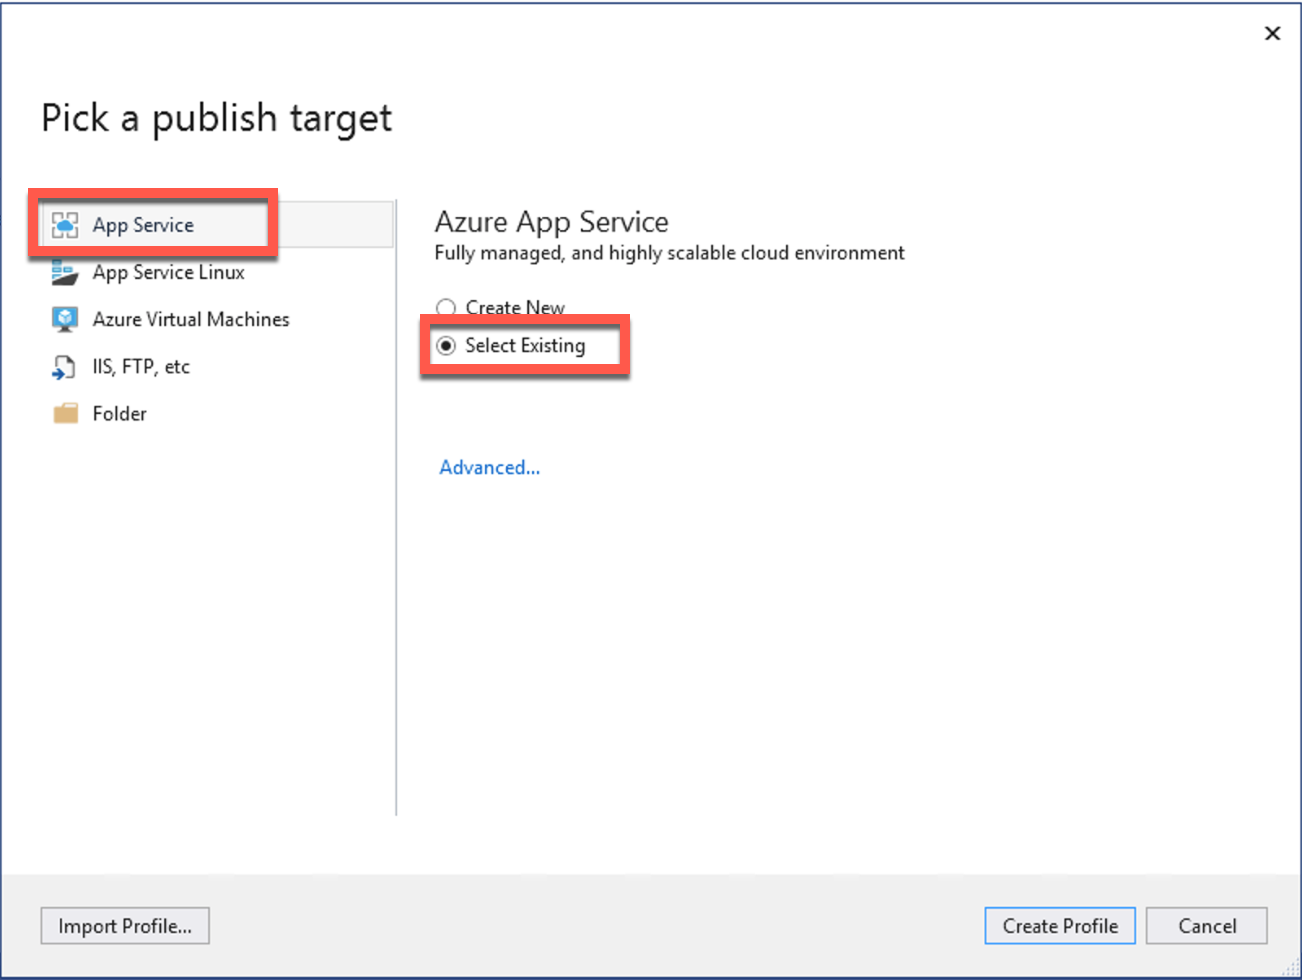
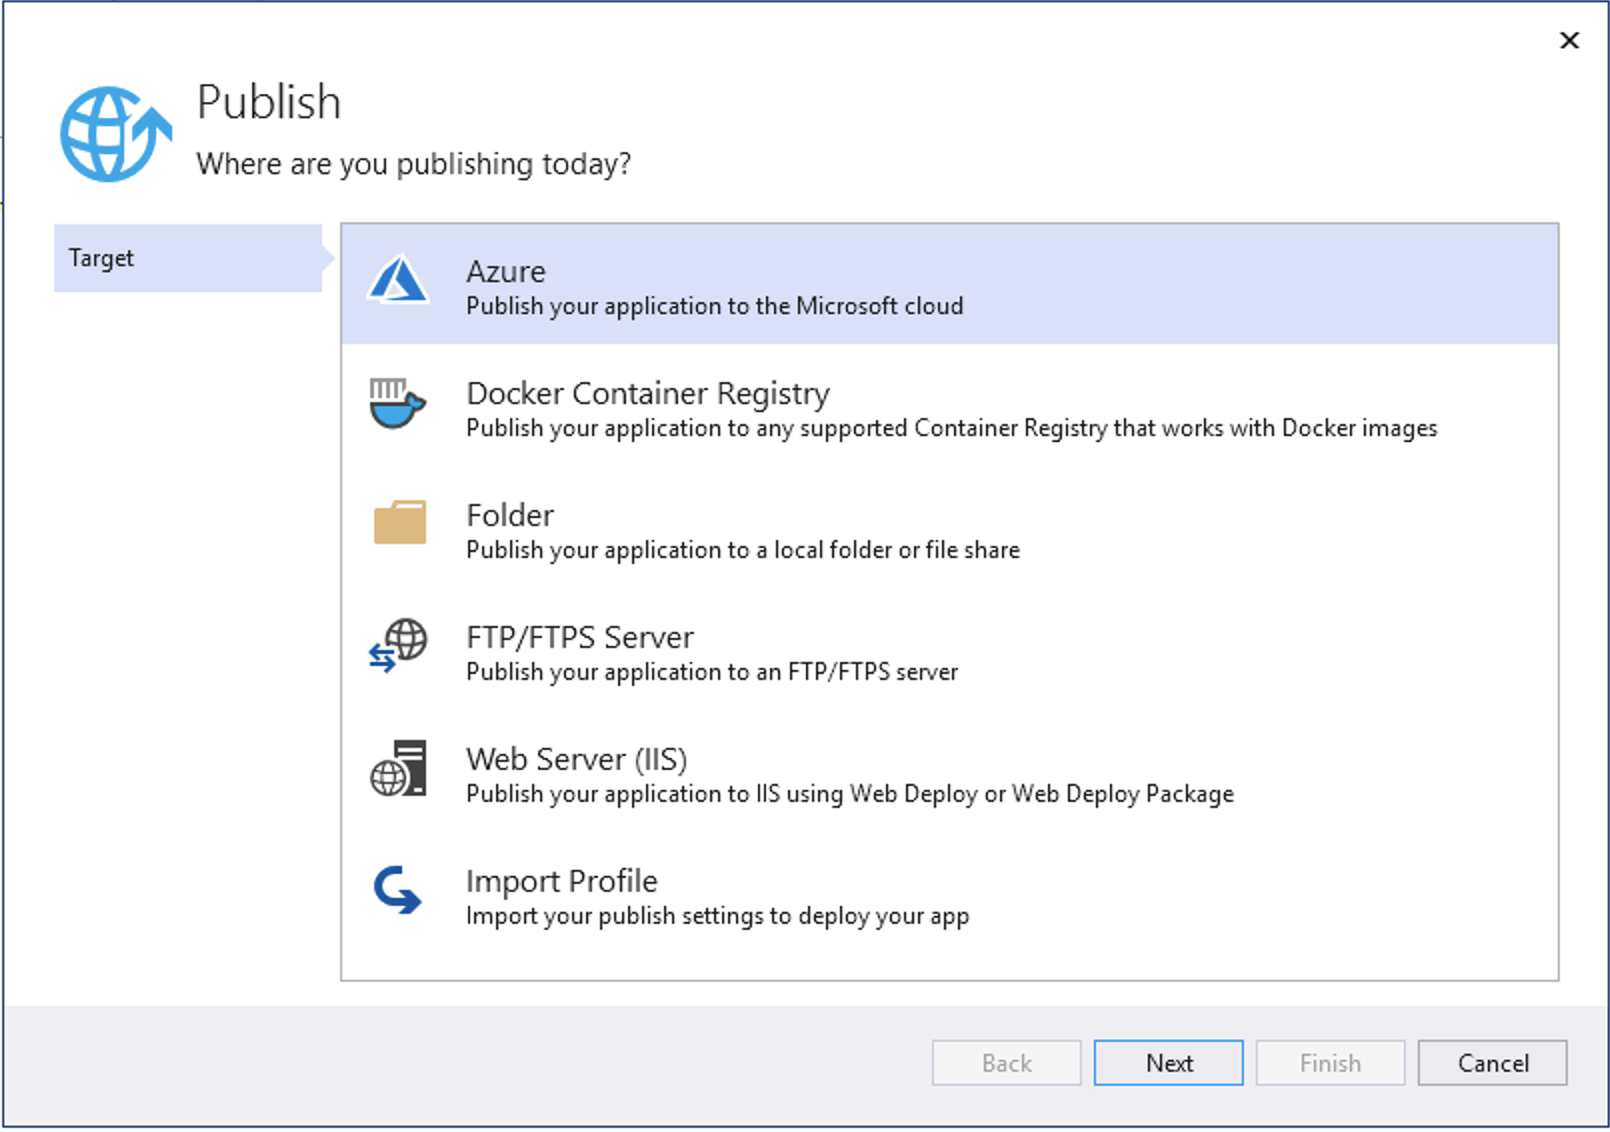
updates

diff --git a/Hands-on lab/HOL step-by-step - Modern cloud apps.md b/Hands-on lab/HOL step-by-step - Modern cloud apps.md
@@ -288,31 +288,27 @@ In this exercise, you will provision a website via the Azure **Web App + SQL** t
 
 1. Navigate to the **Contoso.Apps.SportsLeague.Web** project located in the **Web** folder using the **Solution Explorer** of Visual Studio.
 
-    ![In Solution Explorer, under Solution \'Contoso.Apps.SportsLeague\' (7 projects), Web is expanded, and under Web, Contoso.Apps.SportsLeague.Web is selected.](media/2019-04-19-14-03-04.png "Solution Explorer")
-
 2. Right-click the **Contoso.Apps.SportsLeague.Web** project, and select **Publish**.
 
-    >**Note**: Don't publish if the configuration does not show your settings. Choose **New Profile** to publish to your Azure subscription.
-    > 
-    > ![Visual Studio Publish configuration left over from developer. A don't publish message is displayed. There is a box around New Profile link.](media/2019-03-22-12-42-48.png "Select New Profile")
+    ![In Solution Explorer, under Solution \'Contoso.Apps.SportsLeague\' (7 projects), Web is expanded, and under Web, Contoso.Apps.SportsLeague.Web is selected.](media/2019-04-19-14-03-04.png "Solution Explorer")
 
-3. Choose **Azure App Service** as the publish target, and choose **Select Existing** and then **Create Profile** at the bottom of the wizard.
+3. On the Publish dialog, choose **Azure** as the publish target, then choose **Next**.
 
-    ![On the Publish tab, the Microsoft Azure App Service tile is selected, as is the radio button for Select Existing.](images/Hands-onlabstep-by-step-Moderncloudappsimages/media/image47.png "Publish tab")
+    ![On the Publish dialog, the Azure target option is selected.](images/Hands-onlabstep-by-step-Moderncloudappsimages/media/image47.png "Publish dialog")
 
-4. If prompted, log on with your Azure Subscription credentials.
+4. For the **Specifici target**, choose **Azure App Service (Windows)**, then select **Next**.
 
-    ![App Service Select Existing App Service dialog is displayed. The Sign In link is highlighted](media/2019-04-19-14-07-19.png "Azure Sign In")
+    ![The specific target of Azure App Service (Windows) is selected](media/2019-04-19-14-07-19.png "Publish dialog - Specific target")
 
-    >**Note**: If you Sign In and nothing happens, shut down Visual Studio reopen to the solution. Repeat the publishing steps.
+5. Select the **Contoso Sports Web App** (with the name that was created previously).
 
-5. Select the **Contoso Sports Web App** (with the name you created previously).
+    ![Under Subscriptions, under contososports, contosoapp Web App is selected.](images/Hands-onlabstep-by-step-Moderncloudappsimages/media/image49.png "Publish App Service")
 
-    ![Under Subscriptions, under contososports, contososportsweb0 is selected.](images/Hands-onlabstep-by-step-Moderncloudappsimages/media/image49.png "Subscriptions")
-
-6. Select **OK**.
+6. Select **Finish**.
 
 7. Select **Publish** to publish the Web application.
+
+    ![Publish profile is displayed with the Publish button highlighted](media/2020-06-15-16-53-15.png "Publish profile")
 
     >**Note**: If prompted with a warning about App Service supporting .NET Core 3.0.0, select **OK** to dismiss the warning.
     >
@@ -348,7 +344,7 @@ In this exercise, the attendee will provision a secondary SQL Database and confi
 
 4. Select the Azure Region to place the Secondary within.
 
-    ![The Geo-Replication blade has a map of the world with locations marked on it. Under the map, Primary is set to West US, which on the map has a blue checkmark.](images/Hands-onlabstep-by-step-Moderncloudappsimages/media/image54.png "Geo-Replication blade")
+    ![The Geo-Replication pane with list of locations. Primary location is set to West US.](images/Hands-onlabstep-by-step-Moderncloudappsimages/media/image54.png "Geo-Replication blade")
 
     The Secondary Azure Region should be the Region Pair for the region the SQL Database is hosted in. Consult <https://docs.microsoft.com/en-us/azure/best-practices-availability-paired-regions> to see which region pair the location you are using for this lab is in.
 
